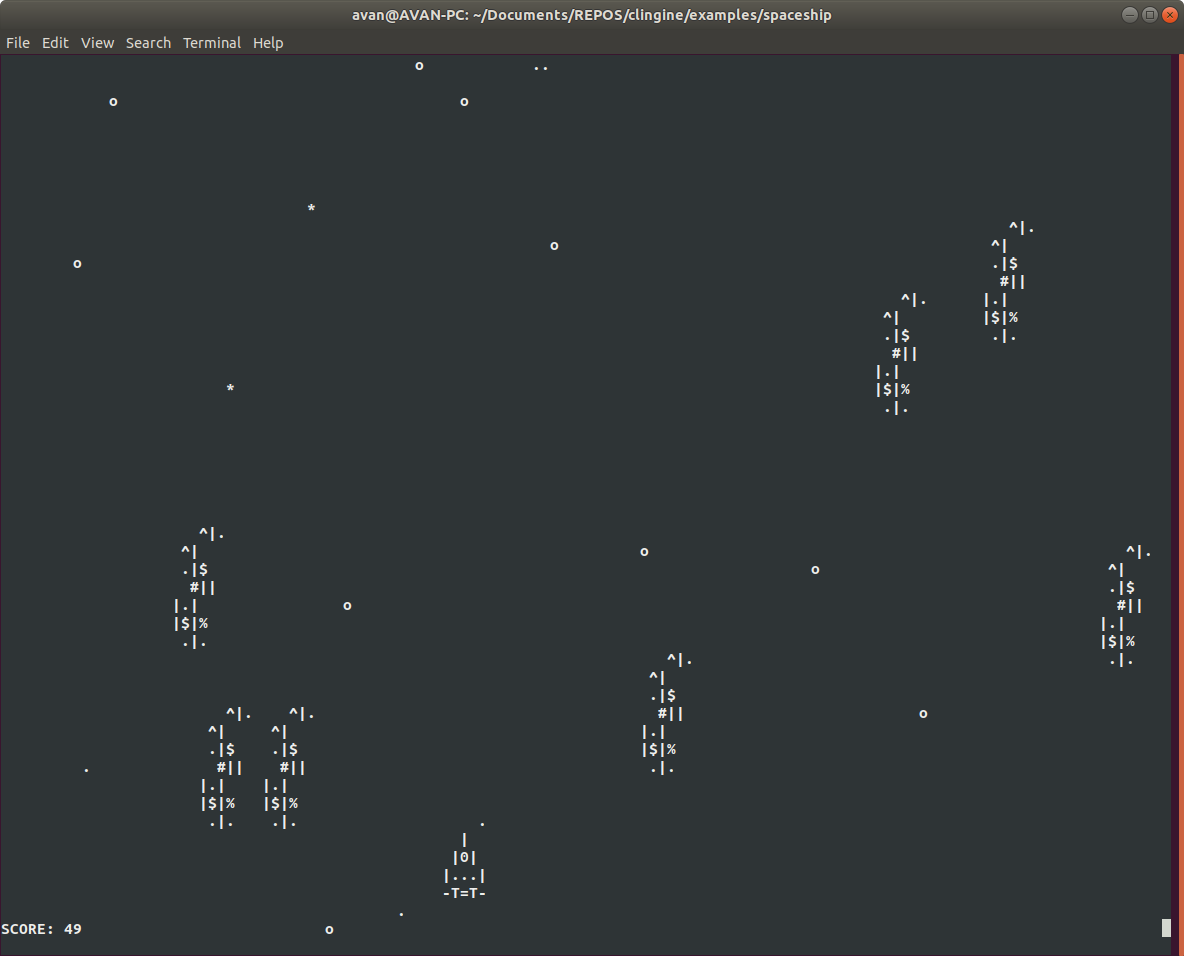
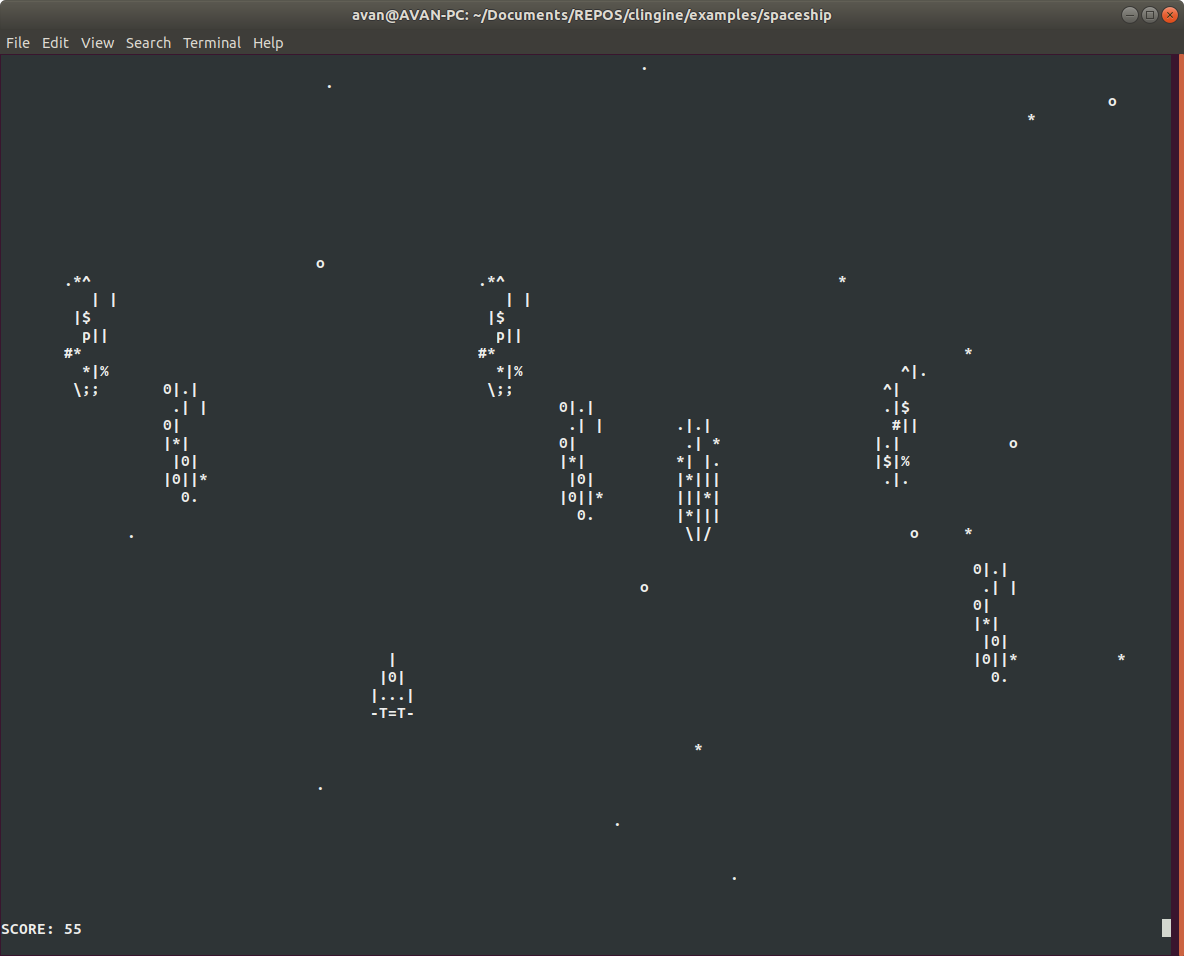
improved example game

diff --git a/examples/spaceship/main.py b/examples/spaceship/main.py
@@ -6,7 +6,6 @@ sys.path.append(sys.path[0] + "/../..") # cause main.py is two directories away 
 
 import clingine
 from engine import player_obj, asteroid, button, star
-from pynput import keyboard
 
 class GameWindow(clingine.window.Window):
 	def __init__(self, *args, **kwargs):
@@ -19,37 +18,53 @@ class GameWindow(clingine.window.Window):
 		self.buttons = [button.Button(window=self, text=txt, x=self.width // 2, y=20 + idx, anchor="center") 
 			for idx, txt in enumerate(buttons_text)]
 		self.buttons[0].active = True
+		
 		self.player = player_obj.Player(window=self, x=self.width // 2, y=self.height - 4, direction=(0, 0), speed=(2, 1), 
 			images=clingine.util.load_images("resources/spaceship/"))
 		asteroid_imgs = clingine.util.load_images("resources/asteroid/")
+
 		self.asteroids = [asteroid.Asteroid(window=self, x=random.randrange(1, self.width - 1 - asteroid_imgs[0].width), 
 			y=random.randrange(-asteroid_imgs[0].height - 40, -asteroid_imgs[0].height),
-			direction=(0, 1), speed=(0, 1), images=asteroid_imgs) for i in range(7)]
-		self.score = clingine.label.Label(window=self, text="SCORE: {}".format(self.player.score), x=0, y=self.height - 2)
+			direction=(0, 1), speed=(0, 1), images=asteroid_imgs, image_num=random.randrange(len(asteroid_imgs))) for i in range(7)]
 
-		self.stars = [star.Star(window=self, x=random.randrange(0, self.width - 1), 
-			y=random.randrange(self.height - 1),
-			direction=(0, 1), speed=(0, 1)) for i in range(20)]
+		self.score = clingine.label.Label(window=self, text="SCORE: {}".format(self.player.score), x=0, y=self.height - 2)
+		self.bullets_left = clingine.label.Label(window=self, text="BULLETS LEFT: {}".format(self.player.bullets_count), x=0, y=self.height - 3)
+
+		self.stars = [star.Star(window=self, x=random.randrange(0, self.width - 1), width=1, height=1, 
+			y=random.randrange(self.height - 1), direction=(0, 1), speed=(0, 1)) for i in range(20)]
 
 		self.cursor = 0
 
-	# overwritten on_press method of the Window class (see the clingine.window.Window class)
-	def on_press(self, key):
-		try:
-			key = key.char
-		except:
-			key = key.name
-		if self.player.state == "dead":
-			if key == "up":
+
+	def handle_key_events(self):
+		if self.player.state == "alive":
+			self.player.direction = (0, 0)
+			self.player.speed = self.player.init_speed
+			if "shift" in self.pressed_keys:
+				self.player.speed = (6, 3)
+			if "up" in self.pressed_keys and not ("down" in self.pressed_keys):
+				self.player.direction = (self.player.direction[0], -1)
+			if "down" in self.pressed_keys and not ("up" in self.pressed_keys):
+				self.player.direction = (self.player.direction[0], 1)
+			if "right" in self.pressed_keys and not ("left" in self.pressed_keys):
+				self.player.direction = (1, self.player.direction[1])
+			if "left" in self.pressed_keys and not ("right" in self.pressed_keys):
+				self.player.direction = (-1, self.player.direction[1])
+			if "space" in self.pressed_keys:
+				self.player.shoot()
+		else:
+			if "up" in self.released_keys:
 				self.buttons[self.cursor].active = False
 				self.buttons[self.cursor].update()
 				self.cursor -= 1
-			if key == "down":
+				self.released_keys.remove("up")
+			if "down" in self.released_keys:
 				self.buttons[self.cursor].active = False
 				self.buttons[self.cursor].update()
 				self.cursor += 1
+				self.released_keys.remove("down")
 
-			if (key == "space" or key == "enter") and "PLAY" in self.buttons[self.cursor].text:
+			if ("space" in self.pressed_keys) and "PLAY" in self.buttons[self.cursor].text:
 				self.reset()
 				self.buttons[1].active_help = False
 				self.player.state = "alive"
@@ -57,7 +72,7 @@ class GameWindow(clingine.window.Window):
 				self.player.score = 0
 				self.buttons[self.cursor].active_help = False
 
-			if (key == "space" or key == "enter") and "QUIT" in self.buttons[self.cursor].text:
+			if ("space" in self.pressed_keys) and "QUIT" in self.buttons[self.cursor].text:
 				self.exit()
 
 			if self.cursor < 0:
@@ -67,36 +82,11 @@ class GameWindow(clingine.window.Window):
 			self.buttons[self.cursor].active = True
 			self.buttons[self.cursor].update()
 
-		else:
-			if key == "shift":
-				self.player.speed = (6, 3)
-			if key == "up":
-				self.player.direction = (self.player.direction[0], -1)
-			if key == "down":
-				self.player.direction = (self.player.direction[0], 1)
-			if key == "right":
-				self.player.direction = (1, self.player.direction[1])
-			if key == "left":
-				self.player.direction = (-1, self.player.direction[1])
-
-	# overwritten on_release method of the Window class
-	def on_release(self, key):
-		if self.player.state == "alive":
-			try:
-				key = key.char
-			except:
-				key = key.name
-			if key == "shift":
-				self.player.speed = self.player.init_speed
-
-			if key == "up" or key == "down":
-				self.player.direction = (self.player.direction[0], 0)
-			if key == "left" or key == "right":
-				self.player.direction = (0, self.player.direction[1])
 
 	def run(self, stdscr):
 		self.fill(stdscr, "black")
 		while self.running:
+			self.handle_key_events()
 			self.score.text = "SCORE: {}".format(self.player.score)
 			self.score.update()
 			self.score.render()
@@ -110,8 +100,15 @@ class GameWindow(clingine.window.Window):
 					btn.update()
 					btn.render()
 			else:
+				self.bullets_left.text = "BULLETS LEFT: {}".format(self.player.bullets_count)
+				self.bullets_left.update()
+				self.bullets_left.render()
+				self.player.animate(loop=True, rate=1)
 				self.player.update()
 				self.player.render()
+				for bullet in self.player.bullets:
+					bullet.update()
+					bullet.render()
 				for ast in self.asteroids:
 					ast.update()
 					if self.player.state == "dead":

diff --git a/examples/spaceship/engine/player_obj.py b/examples/spaceship/engine/player_obj.py
@@ -8,7 +8,15 @@ class Player(clingine.sprite.Sprite):
 		self.init_pos = (self.x, self.y)
 		self.init_direction = self.direction
 
+		self.init_bullets_count = 200
+		self.bullets_count = self.init_bullets_count
+		self.bullets = []
+		self.init_shoot_cooldown = 5
+		self.shoot_cooldown = 0
+
 	def reset(self):
+		self.bullets = []
+		self.bullets_count = self.init_bullets_count
 		self.x = self.init_pos[0]
 		self.y = self.init_pos[1]
 		self.direction = self.init_direction
@@ -31,3 +39,27 @@ class Player(clingine.sprite.Sprite):
 			self.y = 1
 		if self.y + self.height > self.window.height - 1:
 			self.y = self.window.height - 1 - self.height
+
+	def shoot(self):
+		if self.bullets_count > 0 and self.shoot_cooldown == 0:
+			self.shoot_cooldown = self.init_shoot_cooldown
+			self.bullets_count -= 2
+			self.bullets.append(Bullet(window=self.window, x=self.x, y=self.y, width=1, height=1, direction=(0, -1), speed=(0, 1), char="O"))
+			self.bullets.append(Bullet(window=self.window, x=self.x + self.width - 1, y=self.y, width=1, height=1, direction=(0, -1), speed=(0, 1), char="O"))
+		self.shoot_cooldown -= 1
+
+class Bullet(clingine.shapes.Rect):
+	def __init__(self, *args, **kwargs):
+		super().__init__(*args, **kwargs)
+
+	def check_bounds(self):
+		collided_asteroid = self.check_group_collision(self.window.asteroids)
+		if collided_asteroid:
+			collided_asteroid.health -= 1
+			if collided_asteroid.health == 0:
+				collided_asteroid.reset()
+			self.window.player.bullets.remove(self)
+
+		elif self.y < 0:
+			self.unrender()
+			self.window.player.bullets.remove(self)

diff --git a/clingine/sprite.py b/clingine/sprite.py
@@ -23,13 +23,13 @@ class Sprite:
 	def unrender(self):
 		for y in range(len(self.image)):
 			for x in range(len(self.image[y])):
-				if self.image[y][x] != " " and 0 <= int(self.x) + x <= self.window.width - 1 and 0 <= int(self.y) + y <= self.window.height - 1:
+				if 0 <= int(self.x) + x <= self.window.width - 1 and 0 <= int(self.y) + y <= self.window.height - 1:
 					self.window.screen[int(self.y) + y][int(self.x) + x] = self.window.char
 
 	def render(self):
 		for y in range(len(self.image)):
 			for x in range(len(self.image[y])):
-				if self.image[y][x] != " " and 0 <= int(self.x) + x <= self.window.width - 1 and 0 <= int(self.y) + y <= self.window.height - 1:
+				if 0 <= int(self.x) + x <= self.window.width - 1 and 0 <= int(self.y) + y <= self.window.height - 1:
 					self.window.screen[int(self.y) + y][int(self.x) + x] = self.image[y][x]
 
 	def update(self):

diff --git a/clingine/window.py b/clingine/window.py
@@ -11,19 +11,32 @@ class Window:
 		self.running = True
 
 		self.fps = fps
-		self.clock = 0
+		self.clock = time.time()
 		
 		self.reset()
 
 		self.key_listener = pynput.keyboard.Listener(on_press=self.on_press, on_release=self.on_release)
+		self.pressed_keys = set()
+		self.released_keys = set()
 		self.key_listener.start()
 
 
 	def on_press(self, key):
-		pass
+		try:
+			key = key.char
+		except:
+			key = key.name
+		self.pressed_keys.add(key)
+		if key in self.released_keys:
+			self.released_keys.remove(key)
 
 	def on_release(self, key):
-		pass
+		try:
+			key = key.char
+		except:
+			key = key.name
+		self.released_keys.add(key)
+		self.pressed_keys.remove(key)
 
 	def start(self, func):
 		curses.wrapper(func)
@@ -44,6 +57,7 @@ class Window:
 
 
 	def tick(self, fps):
+		self.clock = time.time()
 		time.sleep(1 / fps)
 
 	def exit(self):

diff --git a/examples/spaceship/engine/asteroid.py b/examples/spaceship/engine/asteroid.py
@@ -1,10 +1,14 @@
-import clingine, random
+import clingine, random, time
 
 class Asteroid(clingine.sprite.Sprite):
 	def __init__(self, *args, **kwargs):
 		super().__init__(*args, **kwargs)
+		self.init_health = 2
+		self.health = self.init_health
 		
 	def reset(self):
+		self.health = self.init_health
+		self.unrender()
 		self.y = random.randrange(-self.height - 40, -self.height)
 		self.x = random.randrange(1, self.window.width - 1 - self.width)
 
@@ -17,3 +21,5 @@ class Asteroid(clingine.sprite.Sprite):
 			for ast in self.window.asteroids:
 				ast.reset()
 			self.window.player.reset()
+			time.sleep(1)
+

diff --git a/README.md b/README.md
@@ -9,3 +9,17 @@ CLIngine is a Python game engine for developing command line interface (CLI) gam
 # HOW TO USE:
 Just clone this repo and copy the pyclig directory to your project, then import it.
 I don't know how to publish this package and I'm too lazy to learn.
+
+## TO DO:
+1 More shapes
+2 Shapes colors
+3 Sprite properties
+4 Custom colors
+5 Try: key listeners 
+6 Windows compatibility using Unicurses
+7 Try double buffer
+
+## FIX:
+1 Variable image widths of a sprite
+2 Decide how to handle transparent parts of an img
+3 Stop terminal keyboard input while playing
